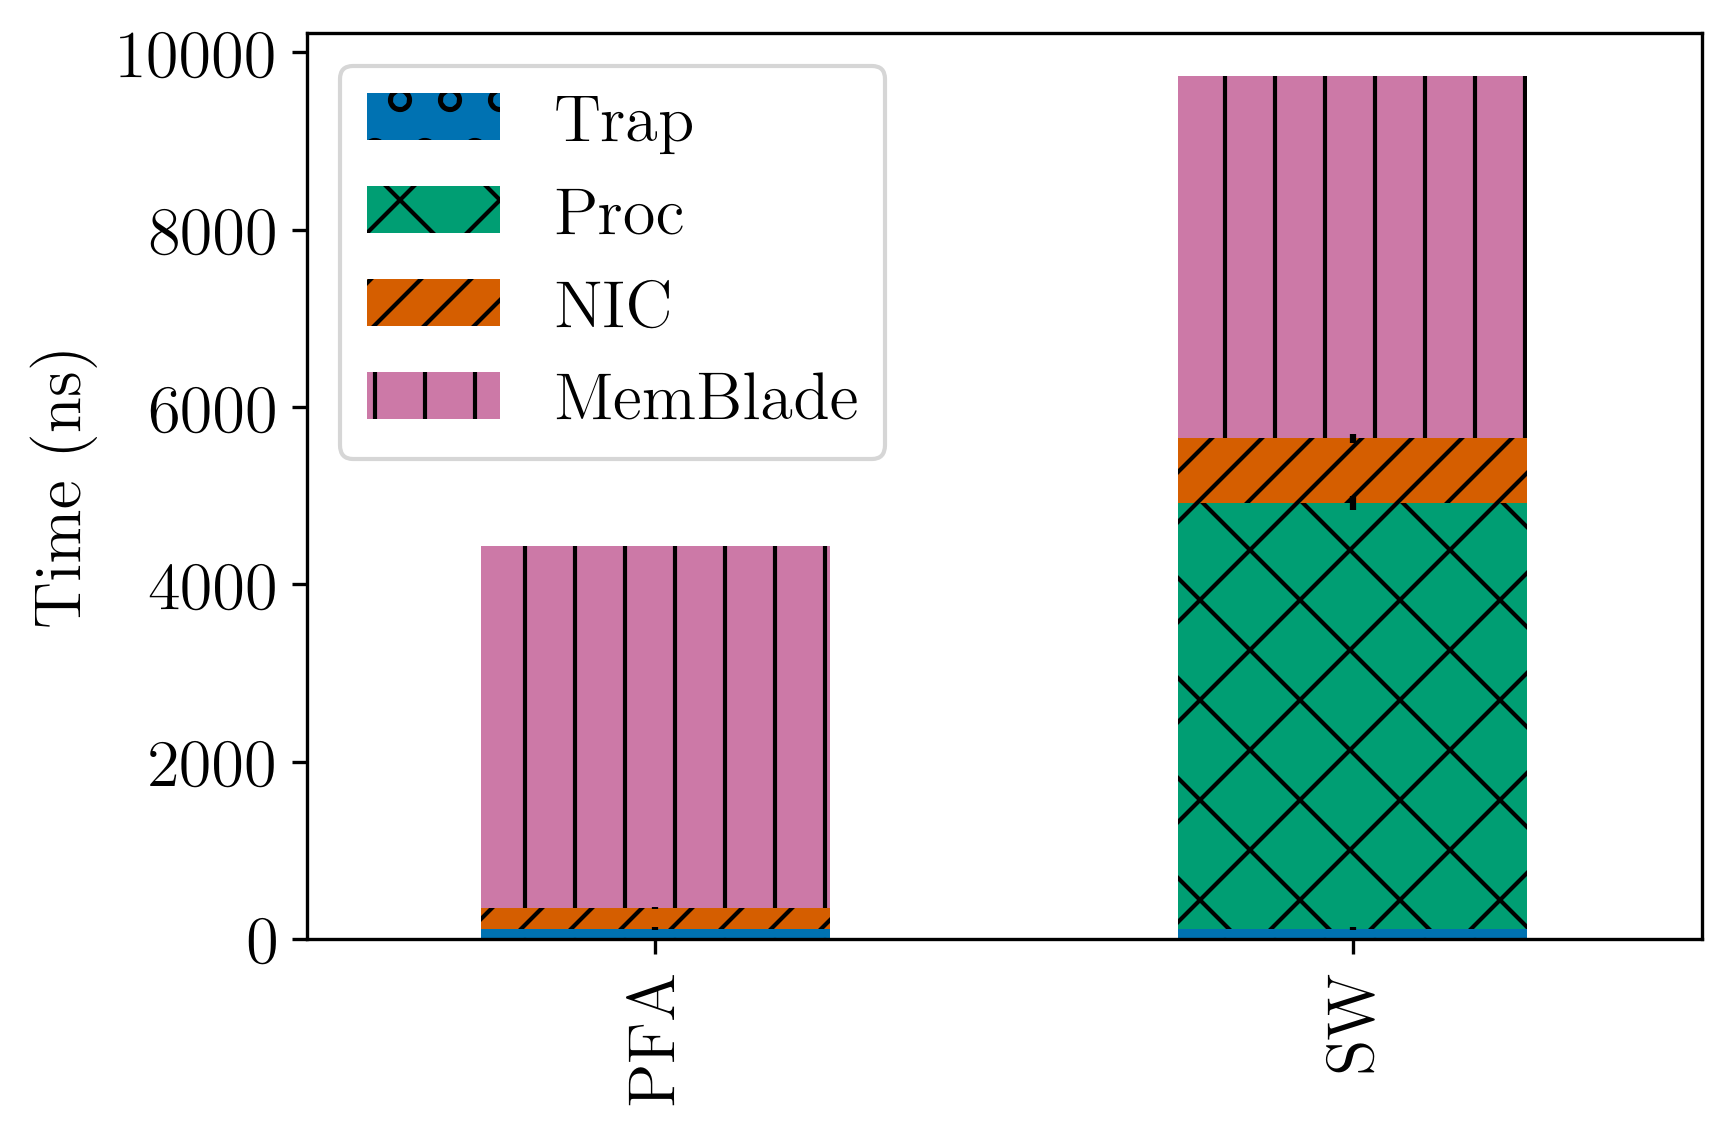
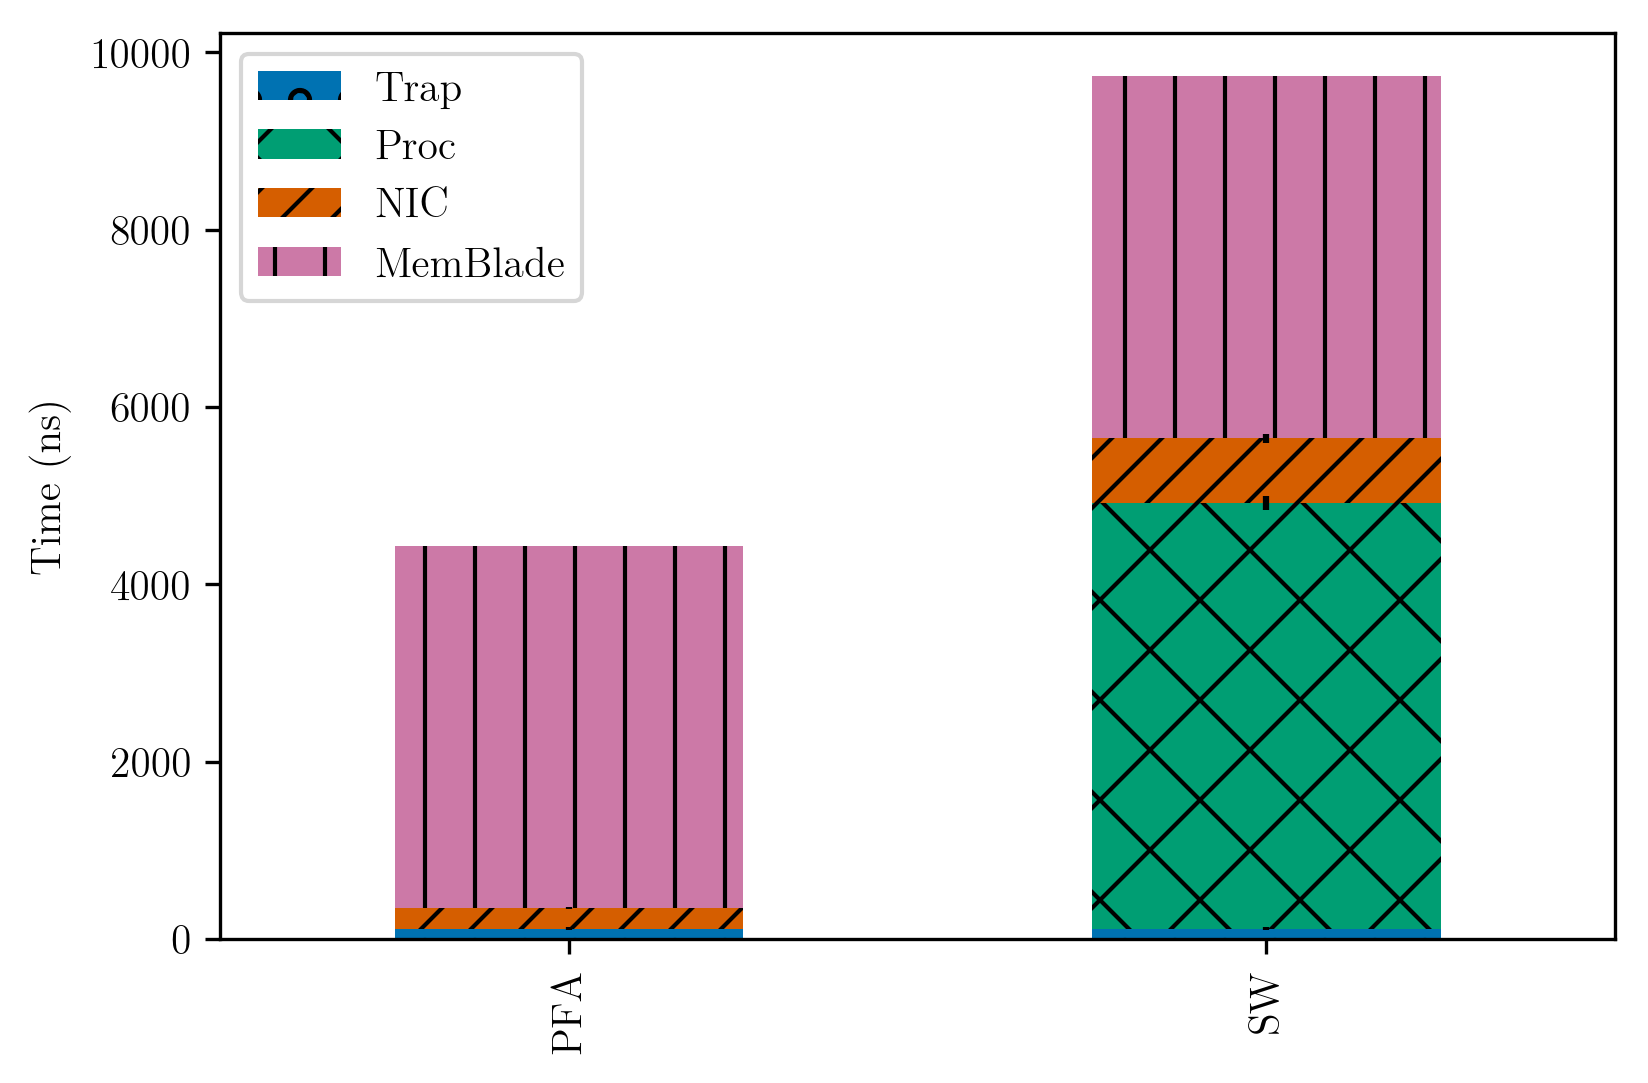
fig 10 done

diff --git a/presentation/html/pfa.html b/presentation/html/pfa.html
@@ -1052,8 +1052,8 @@ of paging. For both benchmarks, the PFA reduces end to end run time by up to
 
   <div id="fig9User" class="tabcontent">
 
-<div class="thebeAuto">
-	<pre data-executable="true" data-language="python">
+    <div class="thebeAuto">
+      <pre data-executable="true" data-language="python">
 # Dataset Selection
 genEnable = widgets.Checkbox(description='Genome', value=True)
 qsortEnable = widgets.Checkbox(description='QSort', value=True)
@@ -1068,10 +1068,10 @@ smallMemEnable = widgets.Checkbox(description='25%', value=True)
 leftBox = widgets.VBox([genEnable, qsortEnable])
 rightBox = widgets.VBox([largeMemEnable, midMemEnable, smallMemEnable])
 widgets.HBox([leftBox, rightBox])
-	</pre>
-</div>
+      </pre>
+    </div>
 
-<pre data-executable="true" data-language="python">
+    <pre data-executable="true" data-language="python">
 total_slowdown = pd.concat([gen_pfa_res['Slowdown'].rename("Genome PFA"),
                             gen_sw_res['Slowdown'].rename("Genome SW"),
 														qsort_pfa_res['Slowdown'].rename("Qsort PFA"),
@@ -1094,7 +1094,7 @@ for i,bar in enumerate(ax.patches):
 ax.legend()    
 
 plt.show()
-</pre>
+    </pre>
   </div>
 
   <div id="fig9Raw" class="tabcontent">
@@ -1110,7 +1110,6 @@ total_slowdown = pd.concat([
 # e.g.:
 print(total_slowdown["Genome PFA"] / total_slowdown["Qsort PFA"])
     </pre>
-
   </div>
 
   <div class="caption">
@@ -1161,25 +1160,111 @@ this in a later section.
 </p>
 
 <!-- #Figure 10 -->
-<hr class="figure" />
-  <div class="figure">
-    <a id="x1-2800110"></a>
-    <!--l. 101-->
-    <p class="noindent" >
-      <img src="figs/fetch_breakdown.png" alt="PIC"/>
-      <br />
-    </p>
-    <div class="caption">
-      <span class="id">Figure 10: </span>
-      <span class="content">Breakdown of time in fetching a single remote page. All data are
-      the average of 10 runs. Error bars represent standard deviation (but are almost
-      too small to be seen). Note that local processing time (including the trap and
-      NIC interaction) only accounts for 8% of time with the PFA, but accounts for
-      over 50% of time for the baseline.</span>
-    </div>
-    <!--tex4ht:label?: x1-2800110 -->
+<div class="tabbedFigure" id="fig10">
+  <div class="tab">
+    <button class="tablinks tabdefault" onclick="openFig(event, 'fig10', 'fig10Def')" id="fig10defTab">Default</button>
+    <button class="tablinks" onclick="openFig(event, 'fig10', 'fig10User')">User</button>
+    <button class="tablinks" onclick="openFig(event, 'fig10', 'fig10Raw')">Raw</button>
   </div>
-<hr class="endfigure" />
+
+  <div id="fig10Def" class="tabcontent">
+    <hr class="figure" />
+      <div class="figure">
+        <a id="x1-2800110"></a>
+        <!--l. 101-->
+        <p class="noindent" >
+          <img src="figs/fetch_breakdown.png" alt="PIC"/>
+          <br />
+        </p>
+        <!--tex4ht:label?: x1-2800110 -->
+      </div>
+    <hr class="endfigure" />
+  </div>
+
+  <div id="fig10User" class="tabcontent">
+    <div class="thebeAuto">
+      <pre data-executable="true" data-language="python">
+mbLat = widgets.IntText(value=micro_mean['PFA']['t_read_switch_memblade_theory'],
+          description="Memory blade page-read latency (in ns)",
+          style={'description_width': 'initial'})
+display(mbLat)
+
+trapEnable = widgets.Checkbox(description='Trap', value=True)
+procEnable = widgets.Checkbox(description='Proc', value=True)
+NicEnable = widgets.Checkbox(description='NIC', value=True)
+mbEnable = widgets.Checkbox(description='MemBlade', value=True)
+widgets.VBox([trapEnable, procEnable, NicEnable, mbEnable])
+      </pre>
+    </div>
+
+    <pre data-executable="true" data-language="python">
+def breakdown_fault(df):
+    tmp = df.transpose().fillna(0)
+    ft = pd.DataFrame(index=tmp.index.copy())
+    ft['Trap'] = tmp['t_trap']
+    ft['Proc'] = tmp['t_fetch'] - tmp['t_read_switch_memblade_measured']
+    # The PFA takes 1 cycle of overhead before invoking the NIC 
+    ft['Proc']['PFA'] = 1 / 3.2
+    ft['NIC'] = tmp['t_read_switch_memblade_measured'] - tmp['t_read_switch_memblade_theory']
+    ft['NIC']['PFA'] = tmp['t_miss']['PFA'] - ft['Trap']['PFA'] - ft['Proc']['PFA'] - tmp['t_read_switch_memblade_theory']['PFA']
+    ft['MemBlade'] = [mbLat.value, mbLat.value]
+    return ft
+    
+fetchtime_mean = breakdown_fault(micro_mean)
+fetchtime_std  = breakdown_fault(micro_std)
+fetchtime_std['MemBlade'] = 0
+
+enableMask = [trapEnable.value, procEnable.value, NicEnable.value, mbEnable.value]
+fetchtime_mean = fetchtime_mean.loc[:,enableMask]
+ax = fetchtime_mean.plot(kind='bar', stacked=True, yerr=fetchtime_std, legend=False)
+hatches = ['o', 'o', 'x', 'x', '//', '//','|','|']
+for i,bar in enumerate(ax.patches):
+    bar.set_hatch(hatches[i])
+
+ax.legend()
+ax.set_ylabel('Time (ns)')
+plt.show()
+    </pre>
+  </div>
+
+  <div id="fig10Raw" class="tabcontent">
+    <pre data-executable="true" data-language="python">
+def breakdown_fault(df):
+    tmp = df.transpose().fillna(0)
+    ft = pd.DataFrame(index=tmp.index.copy())
+    ft['Trap'] = tmp['t_trap']
+    ft['Proc'] = tmp['t_fetch'] - tmp['t_read_switch_memblade_measured']
+    # This is measured directly in VCS
+    ft['Proc']['PFA'] = 1 / 3.2
+    ft['NIC'] = tmp['t_read_switch_memblade_measured'] - tmp['t_read_switch_memblade_theory']
+    ft['NIC']['PFA'] = tmp['t_miss']['PFA'] - ft['Trap']['PFA'] - ft['Proc']['PFA'] - tmp['t_read_switch_memblade_theory']['PFA']
+    ft['MemBlade'] = tmp['t_read_switch_memblade_theory']
+    #This is an optimistic memory blade (~1us)
+    #ft['MemBlade'] = 1129
+    return ft
+    
+fetchtime_mean = breakdown_fault(micro_mean)
+fetchtime_std  = breakdown_fault(micro_std)
+fetchtime_std['MemBlade'] = 0
+print(fetchtime_mean)
+
+# Use this area to interact with the raw data. For example, to show the speedup
+# of the PFA for total end-to-end paging latency:
+print(fetchtime_mean.sum(axis=1)['SW'] / fetchtime_mean.sum(axis=1)['PFA'])
+    </pre>
+  </div>
+
+  <div class="caption">
+    <span class="id">Figure 10: </span>
+    <span class="content">Breakdown of time in fetching a single remote page. All data are
+    the average of 10 runs. Error bars represent standard deviation (but are almost
+    too small to be seen). Note that local processing time (including the trap and
+    NIC interaction) only accounts for 8% of time with the PFA, but accounts for
+    over 50% of time for the baseline.</span>
+  </div>
+
+  <script>document.getElementById("fig10defTab").click();</script>
+</div>
 
 <!--l. 110--><p class="indent" >   Note that the trap overhead is a very small fraction of total time (just 113 ns).
 This is a result of using a simple in-order RISC core like Rocket. It is likely that this
